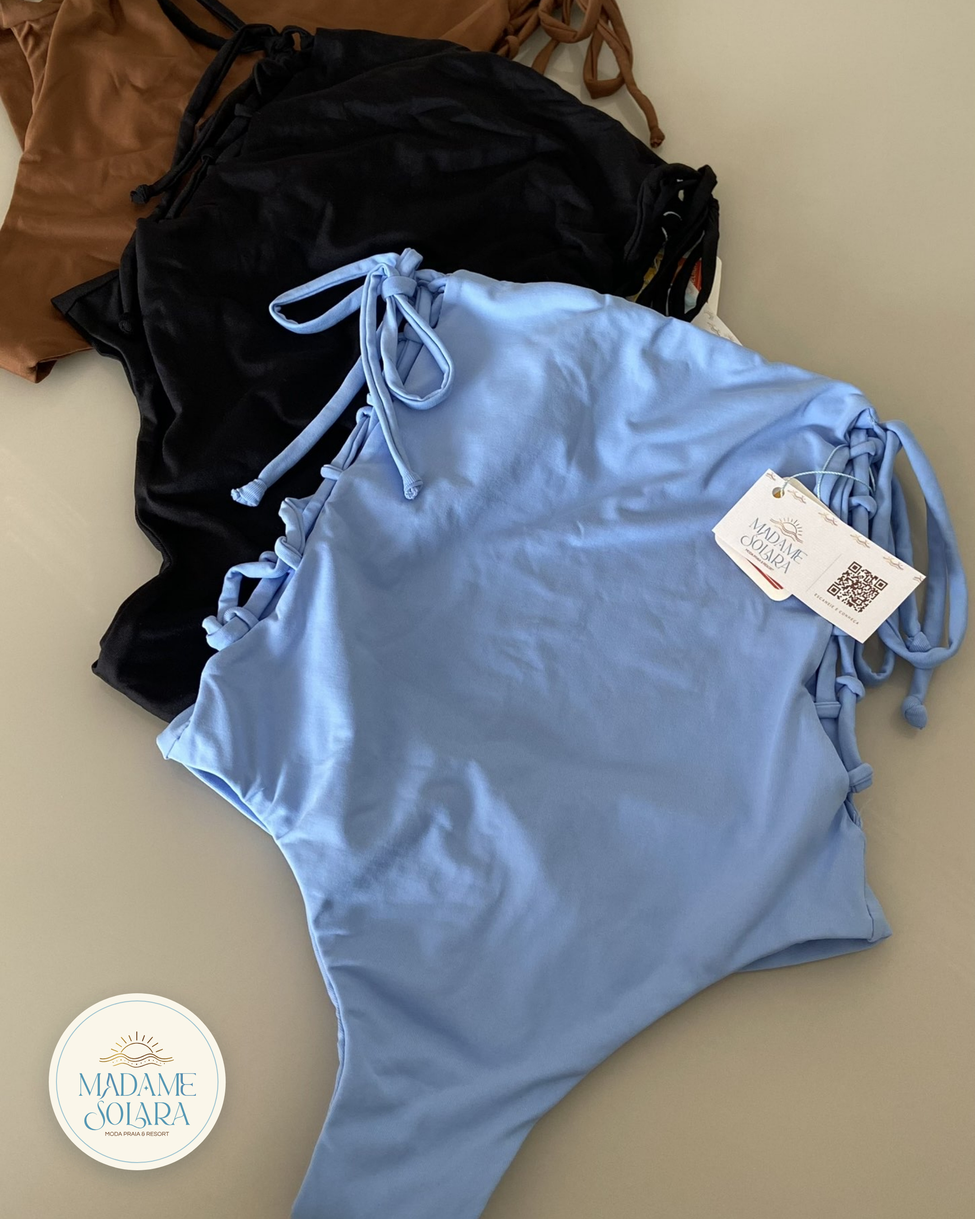
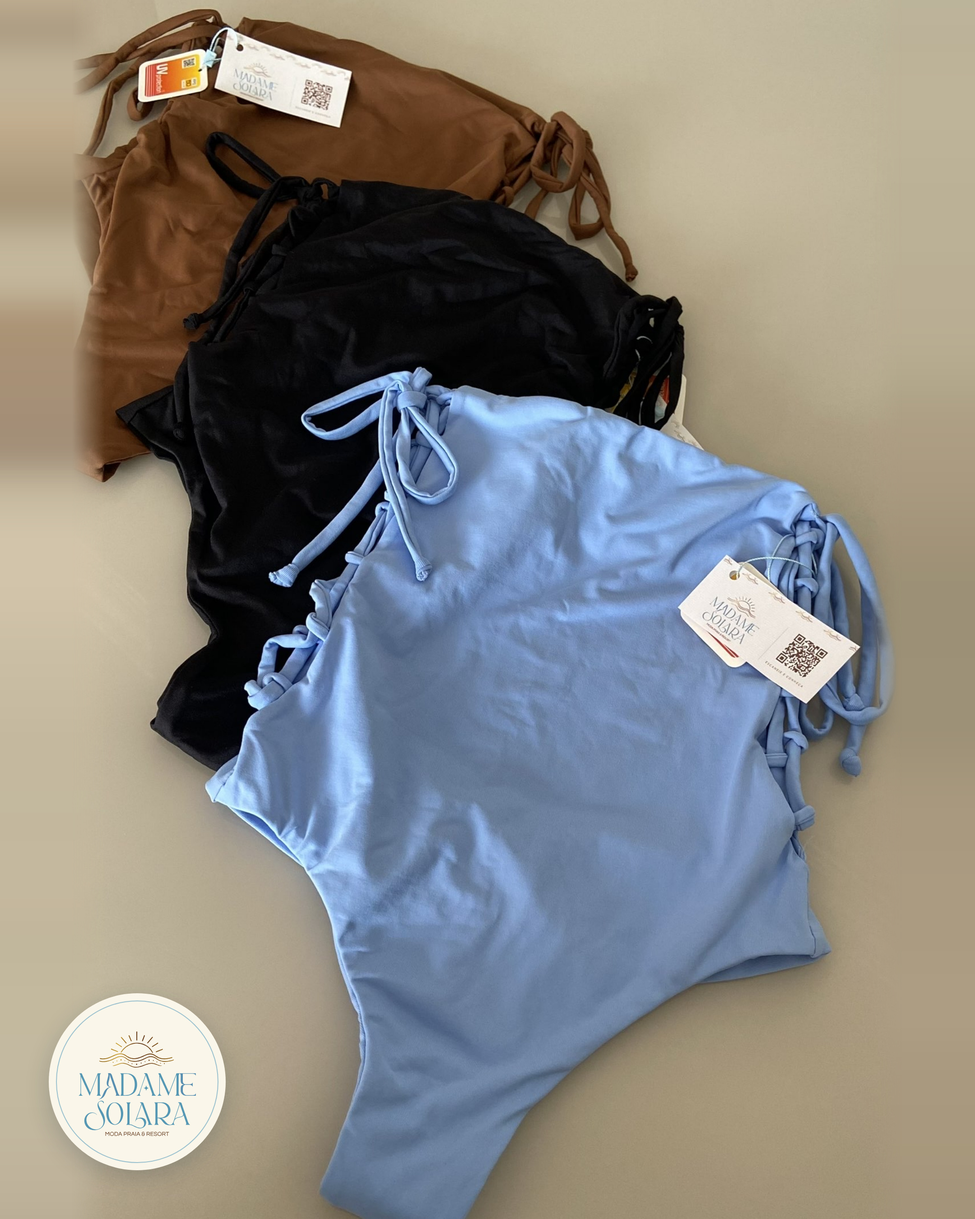
Carrossel: foto dos maiôs sem cortar o maiô marrom
A foto aparece quase inteira na altura, com faixas estreitas nos lados
preenchidas com a cor da mesa.

Claude-Session: https://claude.ai/code/session_01SzAcbP1P9JJZBFuRdp2zSG

diff --git a/madame-solara/carrossel-lancamento/slide.html b/madame-solara/carrossel-lancamento/slide.html
@@ -3,7 +3,7 @@
 <head>
 <meta charset="UTF-8">
 <!-- Um slide do carrossel, 1080x1350 (4:5). Parâmetros na URL:
-     foto=fotos/foto-N.jpg  y=0..100 (posição vertical do recorte)  modo=preco|logo  estilo=d (selo de preço) -->
+     foto=fotos/foto-N.jpg  y=0..100 (posição vertical do recorte)  modo=preco|logo  estilo=d (selo de preço)  faixa=topo,base (sem corte nas laterais)  fundo=imagem para as laterais -->
 <style>
   @font-face { font-family: "Italiana"; src: url("assets/fonts/Italiana-Regular.ttf") format("truetype"); }
   @font-face { font-family: "Montserrat"; src: url("assets/fonts/montserrat-latin-700-normal.woff2") format("woff2"); font-weight: 700; }
@@ -12,6 +12,13 @@
   html, body { width: 1080px; height: 1350px; overflow: hidden; background: #c9c7c4; }
   #quadro { position: relative; width: 1080px; height: 1350px; overflow: hidden; }
   #foto { position: absolute; inset: 0; width: 100%; height: 100%; object-fit: cover; }
+  /* faixa=topo,base (pixels da foto original): mostra essa faixa na altura toda, sem cortar nas laterais;
+     as sobras dos lados são preenchidas com a própria foto desfocada, e a borda da foto é suavizada. */
+  #fundo { position: absolute; inset: -60px; width: calc(100% + 120px); height: calc(100% + 120px);
+    object-fit: cover; filter: blur(38px); display: none; }
+  .inteira #fundo { display: block; }
+  .inteira #foto { object-fit: fill;
+    -webkit-mask-image: linear-gradient(to right, transparent 0, #000 36px, #000 calc(100% - 36px), transparent 100%); }
   /* Logo dentro de um selo creme, para ler bem sobre o cinza da mesa e sobre o tecido. */
   #selo-logo { position: absolute; left: 54px; bottom: 54px; width: 196px; height: 196px; border-radius: 50%;
     background: var(--creme); box-shadow: 0 8px 26px rgba(20, 40, 55, 0.22); display: none;
@@ -34,6 +41,7 @@
 </head>
 <body>
 <div id="quadro">
+  <img id="fundo" alt="">
   <img id="foto" alt="">
   <div id="sombra"></div>
   <div id="preco"><div class="chamada">peças a partir de</div><div class="valor"><small>R$</small>53,00</div></div>
@@ -43,10 +51,22 @@
   const q = new URLSearchParams(location.search);
   const foto = document.getElementById("foto");
   foto.src = q.get("foto");
+  if (q.get("faixa")) {
+    const [topo, base] = q.get("faixa").split(",").map(Number);
+    document.getElementById("fundo").src = q.get("fundo") || q.get("foto");
+    if (q.get("fundo")) document.getElementById("fundo").style.filter = "none";
+    document.getElementById("quadro").classList.add("inteira");
+    foto.addEventListener("load", () => {
+      const k = 1350 / (base - topo);
+      const w = foto.naturalWidth * k;
+      Object.assign(foto.style, { inset: "auto", width: w + "px", height: foto.naturalHeight * k + "px",
+        left: (1080 - w) / 2 + "px", top: -topo * k + "px" });
+    });
+  }
   foto.style.objectPosition = "50% " + (q.get("y") || "50") + "%";
   const quadro = document.getElementById("quadro");
   if (q.get("modo") === "preco") {
-    quadro.className = q.get("estilo") || "d";
+    quadro.classList.add(q.get("estilo") || "d");
     document.getElementById("preco").style.display = "block";
   } else {
     document.getElementById("sombra").remove();

diff --git a/madame-solara/carrossel-lancamento/fundo-6.py b/madame-solara/carrossel-lancamento/fundo-6.py
@@ -1,0 +1,26 @@
+"""Fundo das laterais do slide 6 (foto dos maiôs, que é mais comprida que 4:5).
+
+A foto aparece quase inteira, de cima a baixo, e sobram faixas estreitas nos lados. Elas são
+preenchidas com a cor da mesa tirada da borda da foto, linha a linha; onde a borda é tecido
+(o maiô marrom encosta nela), vale a cor da mesa das linhas vizinhas.
+"""
+import numpy as np
+from PIL import Image, ImageFilter
+
+TOPO, BASE = 170, 2300          # faixa da foto original mostrada no slide (a mesma da URL)
+src = Image.open('fotos/foto-6.jpg').convert('RGB'); W, H = src.size
+k = 1350 / (BASE - TOPO); w = round(W * k)
+foto = src.resize((w, round(H * k)), Image.LANCZOS).crop((0, round(TOPO * k), w, round(TOPO * k) + 1350))
+a = np.asarray(foto).astype(float)
+L = a[:, 2:8].mean(1); R = a[:, -8:-2].mean(1)
+ref = np.median(R[700:1300], 0)                     # a borda direita, embaixo, é só mesa
+
+def borda(col):
+    rel = col / col.sum(1, keepdims=True); rref = ref / ref.sum()
+    ok = (np.abs(rel - rref).max(1) < 0.025) & (col.mean(1) > 140)   # mesma tonalidade da mesa e clara
+    ys = np.arange(len(col))
+    return np.stack([np.interp(ys, ys[ok], col[ok, c]) for c in range(3)], 1)
+
+fundo = np.zeros((1350, 1080, 3))
+fundo[:, :540] = borda(L)[:, None, :]; fundo[:, 540:] = borda(R)[:, None, :]
+Image.fromarray(fundo.clip(0, 255).astype('uint8')).filter(ImageFilter.GaussianBlur(14)).save('fotos/fundo-6.png')

diff --git a/madame-solara/carrossel-lancamento/LEIAME.md b/madame-solara/carrossel-lancamento/LEIAME.md
@@ -5,11 +5,11 @@ Sete imagens 4:5 (exportadas a 2160x2700) para o Instagram, em `final/`, na orde
 - Slide 1: biquíni amarelo e azul com o selo azul "peças a partir de R$ 53,00".
 - Slides 2 a 7: as demais fotos com o logo colorido num selo creme no canto de baixo à esquerda.
 
-As fotos originais estão em `fotos/`, já giradas. As fotos 3:4 perderam cerca de 6% em cima e embaixo para caber em 4:5. A foto 6 (maiôs empilhados) era 9:16 e foi recortada mais: sai o topo do maiô marrom e a etiqueta dele.
+As fotos originais estão em `fotos/`, já giradas. As fotos 3:4 perderam cerca de 6% em cima e embaixo para caber em 4:5. A foto 6 (maiôs empilhados) é bem mais comprida que 4:5. Para não cortar o maiô marrom, ela aparece quase inteira (de 170 a 2300 px na altura) e sobram faixas de 80 px nos lados, preenchidas com a cor da mesa por `fundo-6.py`.
 
 Para refazer um slide:
 
     node exportar.js "foto=fotos/foto-1.jpg&y=50&modo=preco" saida.png
-    node exportar.js "foto=fotos/foto-6.jpg&y=58&modo=logo" saida.png
+    node exportar.js "foto=fotos/foto-6.jpg&modo=logo&faixa=170,2300&fundo=fotos/fundo-6.png" saida.png
 
 `y` move o recorte na vertical (0 = topo, 100 = base).
